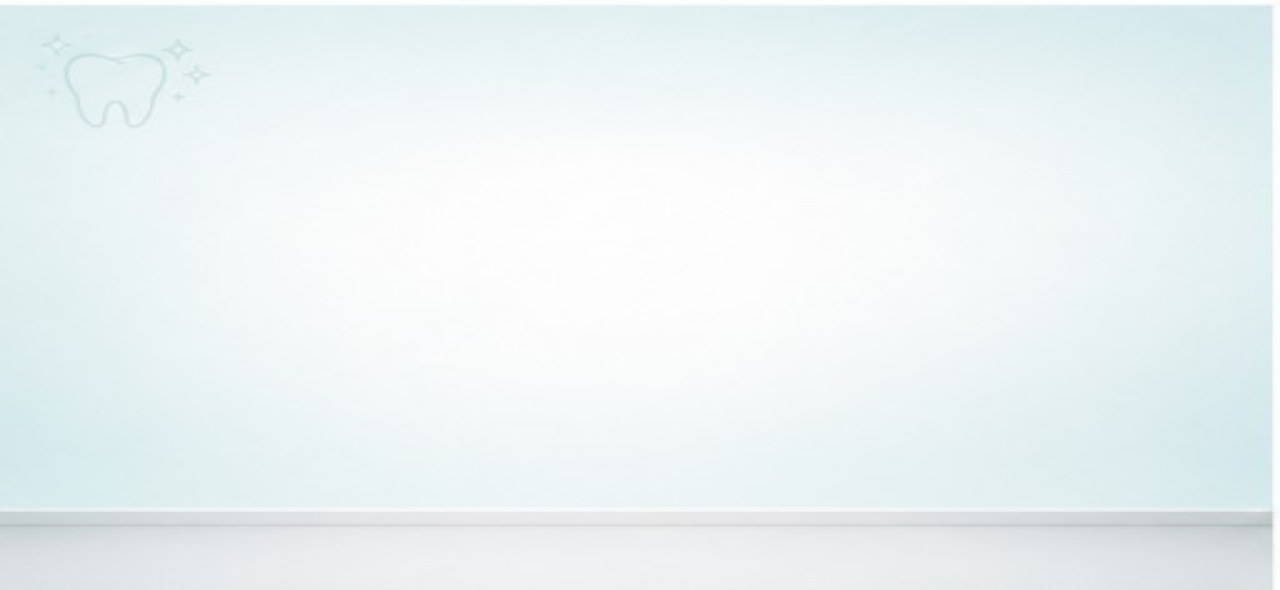
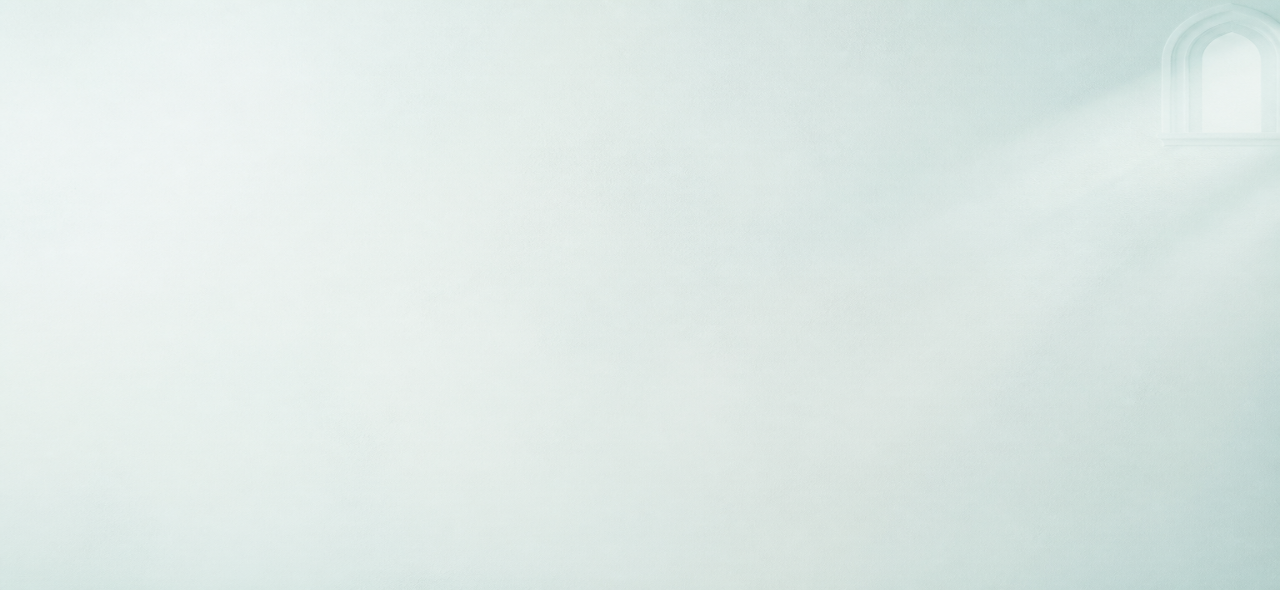
Regenerate clinic-cool flats with place-true micro motifs and ban glyph text.
Panels: plain / tooth / alcove / bandage-roll; reject clipboard forms that bake letters. midSd low, textInk dark; skill docs updated.

diff --git a/docs/asset-wishlist.md b/docs/asset-wishlist.md
@@ -70,7 +70,7 @@ Gaps noticed during the **board quality loop**. Prefer appending here over forci
 | 2026-08-09 | Firehouse king stage (`fire-truck` + fire dock) | Fire station lessons needed heroProp not generic templates | Promote truck + wire fire dock/STAGE_RULES | prop-cutouts / edbActivities | wired — `fire-truck` hero + `ROLEPLAY_DOCK_FIRE` |
 | 2026-08-09 | Campsite king stage (`tent` + camp dock) | Camping pack had glossy tent exiled from matte kit → sortBins hollow | Drop tent glossy family; wire camp dock | propBank family + edbActivities | wired — `tent` matte hero + `ROLEPLAY_DOCK_CAMP` |
 | 2026-08-09 | Warm-up coloring outline for bathroom / daily wash | bathroom warm uses generic star (no banked PNG) | 2×2 coloring crop in `10_coloring/` | assets:coloring | open |
-| 2026-08-09 | More distinct `clinic-cool` panels (stronger motif contrast across a–d) | hospital quality loop M5 — doctor/dentist/clown-clinic/loop2-doctor pageDiff~0.22; flats rotate keys but read as cousins | Regen clinic-a…d with clearer motif contrast (waiting room vs exam vs corridor vs night desk) | bg-flat-sets | open |
+| 2026-08-09 | More distinct `clinic-cool` panels (stronger motif contrast across a–d) | hospital quality loop M5 — doctor/dentist/clown-clinic/loop2-doctor pageDiff~0.22; flats rotate keys but read as cousins | Regen clinic-a…d with clearer motif contrast (waiting room vs exam vs corridor vs night desk) | bg-flat-sets | wired — regen plain / tooth / alcove / bandage-roll corners (blank clipboard rejected — baked text) |
 | 2026-08-09 | `restaurant-warm` quiet flat set | restaurant place signal had no TOPIC_SETS row (bgGap / bakery steal risk) | ChatGPT quiet zip sheet → import | assets:bg --flat | wired — restaurant-a…d + TOPIC_SETS before bakery |
 | 2026-08-09 | `post-cool` quiet flat set | post office / mail lessons had no place wash | ChatGPT quiet zip sheet → import | assets:bg --flat | wired — post-a…d + TOPIC_SETS + PLACE_SIGNALS |
 | 2026-08-10 | `garage-cool` quiet flat set | garage / mechanic place signal had no TOPIC_SETS row | ChatGPT quiet zip 2×2 → import | assets:bg --flat --grid=2x2 | wired — garage-a…d + TOPIC_SETS + PLACE_SIGNALS |

diff --git a/docs/bg-theme-sets.md b/docs/bg-theme-sets.md
@@ -93,7 +93,7 @@ Anti-formula section.
 
 | Set | Good corner motifs | Bad / formula stand-ins |
 |-----|--------------------|-------------------------|
-| `clinic-cool` | tooth outline, soft sparkle, pale alcove edge, exam-lamp glow | grass, hills, nature landscapes |
+| `clinic-cool` | tooth outline, soft sparkle, pale alcove edge, exam-lamp glow, **blank** clipboard glyph (no letters) | grass, hills, nature landscapes, readable clipboard forms, mid-frame dental chair |
 | `travel-air` | paper plane, map-pin trail, soft cloud corner | beach shells, bakery tools, farm wheat |
 | `home-warm` | curtain fold, soft arch shadow, peach hill band at edge | outdoor meadow, clinic teal wall |
 | `outdoor-fresh` | grass fringe, picnic blanket corner, zoo gate/rail watermark, tent + lantern | generic leaf/sun stickers only, identical hill formula, indoor shelves, dough, tooth icons |

diff --git a/.cursor/skills/bg-flat-sets/SKILL.md b/.cursor/skills/bg-flat-sets/SKILL.md
@@ -78,6 +78,7 @@ place** (see motif table in [`docs/bg-theme-sets.md`](../../../docs/bg-theme-set
 - Mid-frame clutter / busy shop interior / furniture close-ups
 - Motifs that also fit a different place equally well
 - **Furnished room + empty middle strip** (hard fail) — tables/desks/beds/cabinets/shelves as scene layout with a cleared centre for cards. Target = near-empty wash + thumbnail corner glyph (`fire-cool` / pool / police winners). If it reads as a room → reject and regen.
+- **Readable text on corner glyphs** (hard fail) — clipboards/forms with letters, price tags with numbers, badges with words. Blank silhouette only.
 
 ### Plan gate (before generate)
 
